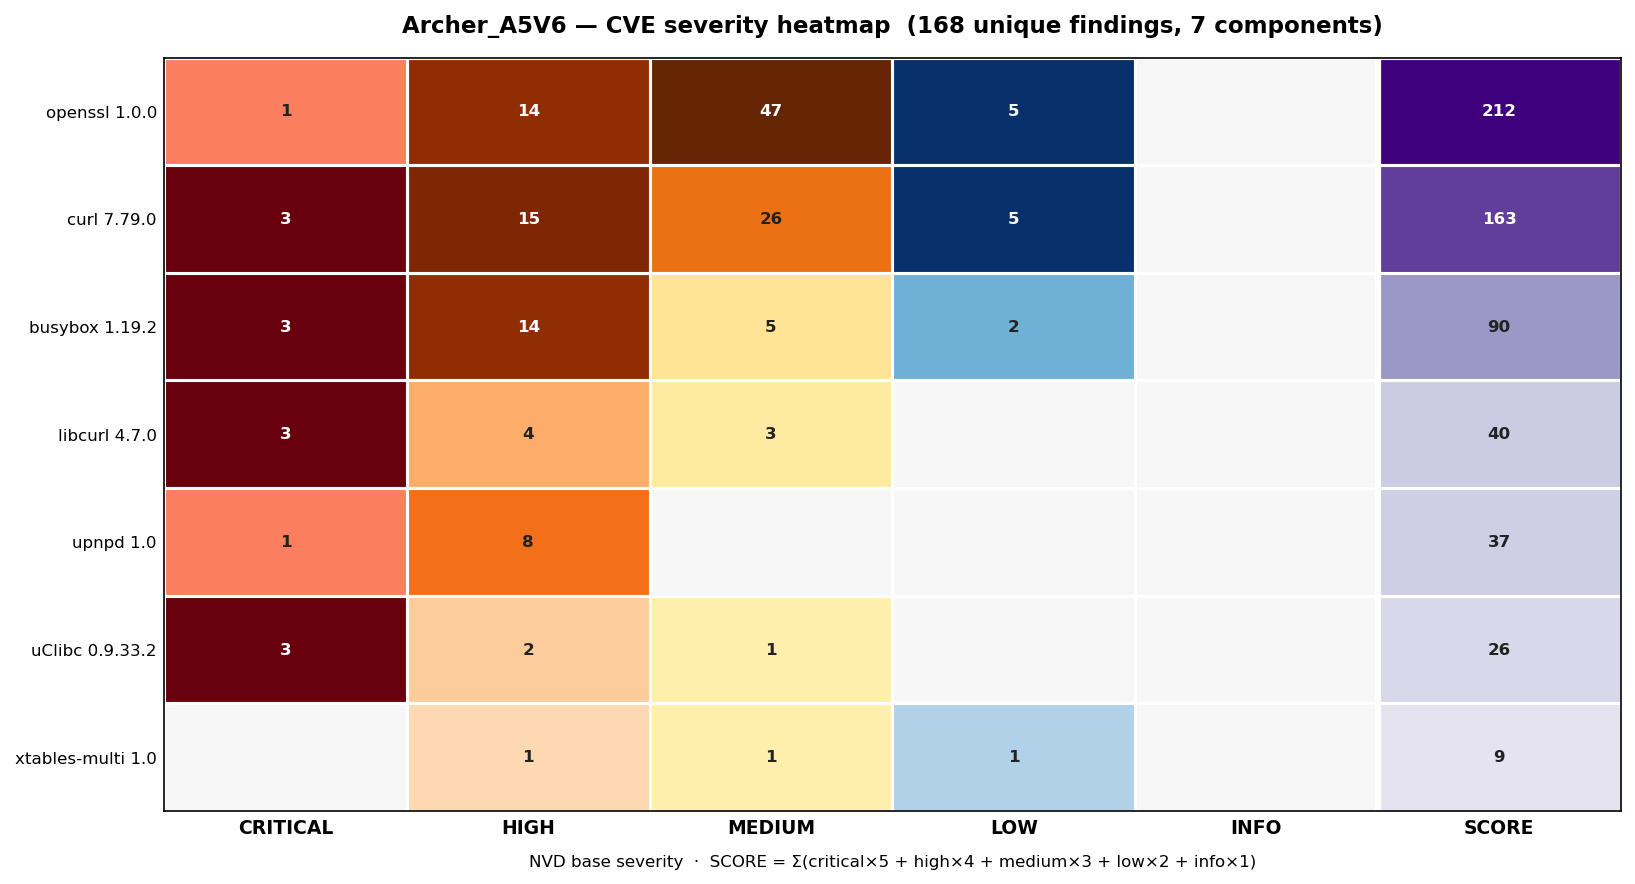
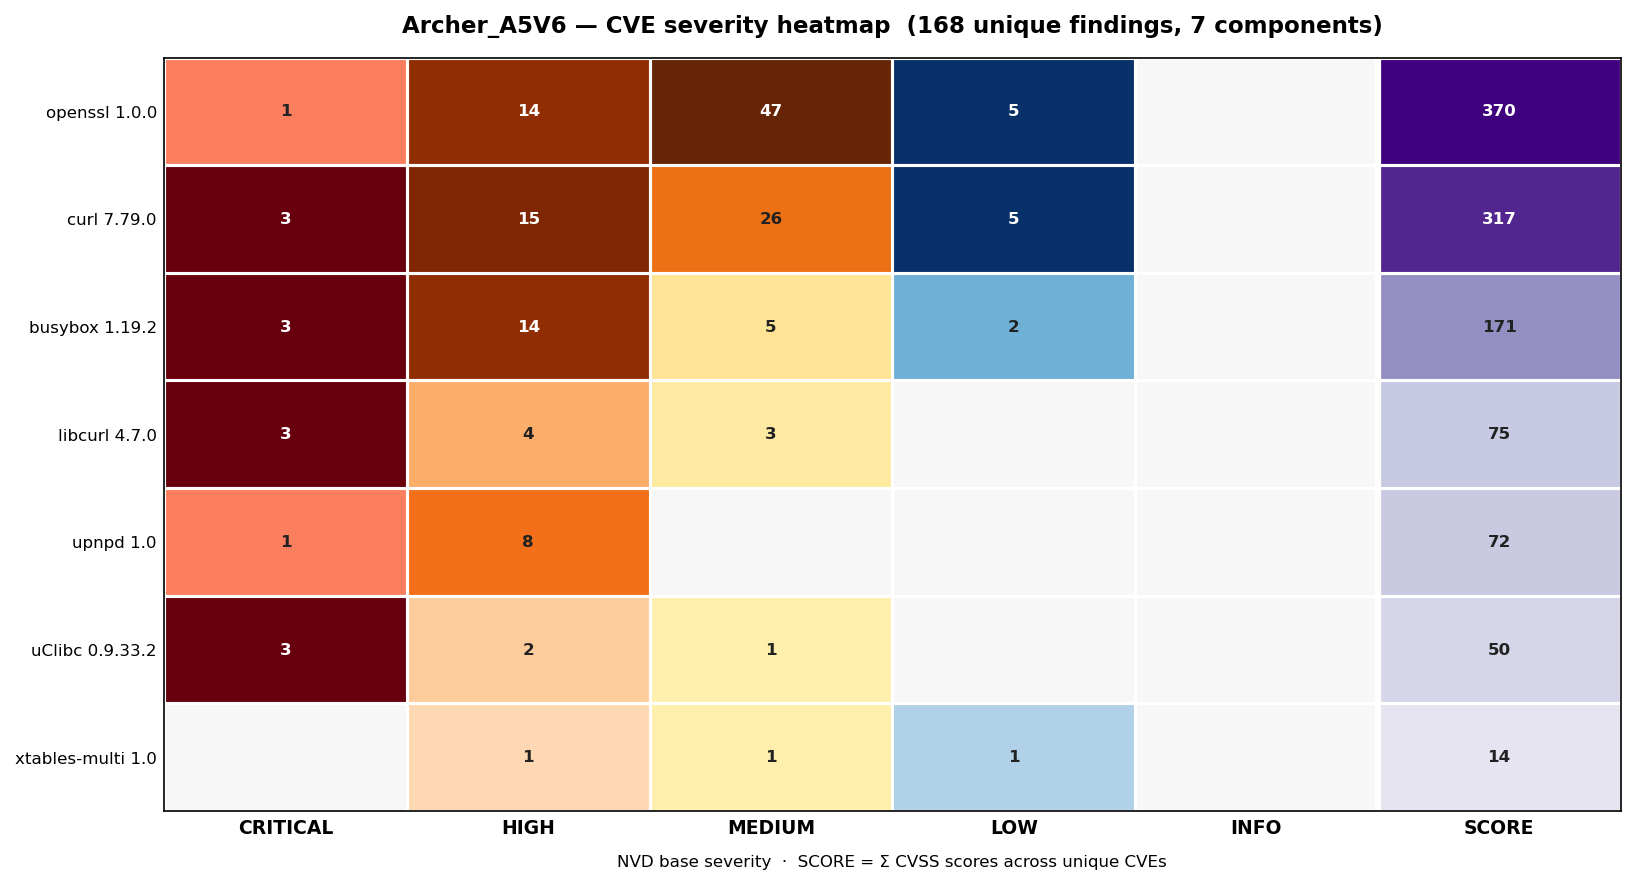
Replace bucket-weight score with sum of CVSS scores
A CVSS 9.8 and a CVSS 4.0 in the same severity bucket no longer
contribute equally. Score is now Σ(cvss_score) across unique CVEs,
which preserves the full numeric signal from NVD.

diff --git a/firmware_analysis/reporting/heatmap.py b/firmware_analysis/reporting/heatmap.py
@@ -31,7 +31,6 @@ except ImportError:
 
 
 _SEVERITIES = ["critical", "high", "medium", "low", "info"]
-_WEIGHTS    = {"critical": 5, "high": 4, "medium": 3, "low": 2, "info": 1}
 
 # One colour scale per severity column so intensity encodes count within column.
 _COL_CMAPS = {
@@ -86,25 +85,29 @@ def _load_report(analysis_dir: Path) -> dict:
 
 def _build_matrix(
     vulnerabilities: list[dict], top: int
-) -> tuple[list[str], np.ndarray, list[int]]:
-    # Deduplicate: canonical_label → severity → set of unique CVE IDs.
-    groups: dict[str, dict[str, set[str]]] = defaultdict(lambda: defaultdict(set))
+) -> tuple[list[str], np.ndarray, list[float]]:
+    # Deduplicate: canonical_label → cve_id → (severity, cvss_score).
+    cve_data: dict[str, dict[str, tuple[str, float]]] = defaultdict(dict)
     for v in vulnerabilities:
         label  = _canonical(v.get("component", "unknown"), v.get("version", ""))
-        sev    = v.get("base_severity", "info").lower()
         cve_id = v.get("cve", "unknown")
-        groups[label][sev].add(cve_id)
+        if cve_id not in cve_data[label]:
+            cve_data[label][cve_id] = (
+                v.get("base_severity", "info").lower(),
+                float(v.get("cvss_score", 0.0)),
+            )
 
-    counts = {
-        label: {sev: len(cves) for sev, cves in sevs.items()}
-        for label, sevs in groups.items()
-    }
+    # Severity counts from deduplicated CVEs.
+    counts: dict[str, dict[str, int]] = defaultdict(lambda: defaultdict(int))
+    for label, cves in cve_data.items():
+        for sev, _ in cves.values():
+            counts[label][sev] += 1
 
-    def score(comp: str) -> int:
-        return sum(_WEIGHTS.get(s, 0) * n for s, n in counts[comp].items())
+    def score(comp: str) -> float:
+        return sum(cvss for _, cvss in cve_data[comp].values())
 
-    components = sorted(counts, key=lambda c: (-score(c), c))[:top]
-    scores     = [score(c) for c in components]
+    components = sorted(cve_data, key=lambda c: (-score(c), c))[:top]
+    scores     = [round(score(c), 1) for c in components]
 
     matrix = np.array(
         [[counts[comp].get(sev, 0) for sev in _SEVERITIES] for comp in components],
@@ -178,7 +181,7 @@ def _draw(
         f"{firmware_id} — CVE severity heatmap  ({total} unique findings, {n_rows} components)",
         fontsize=11, fontweight="bold", pad=12,
     )
-    ax.set_xlabel("NVD base severity  ·  SCORE = Σ(critical×5 + high×4 + medium×3 + low×2 + info×1)",
+    ax.set_xlabel("NVD base severity  ·  SCORE = Σ CVSS scores across unique CVEs",
                   fontsize=8, labelpad=8)
 
     plt.tight_layout()
